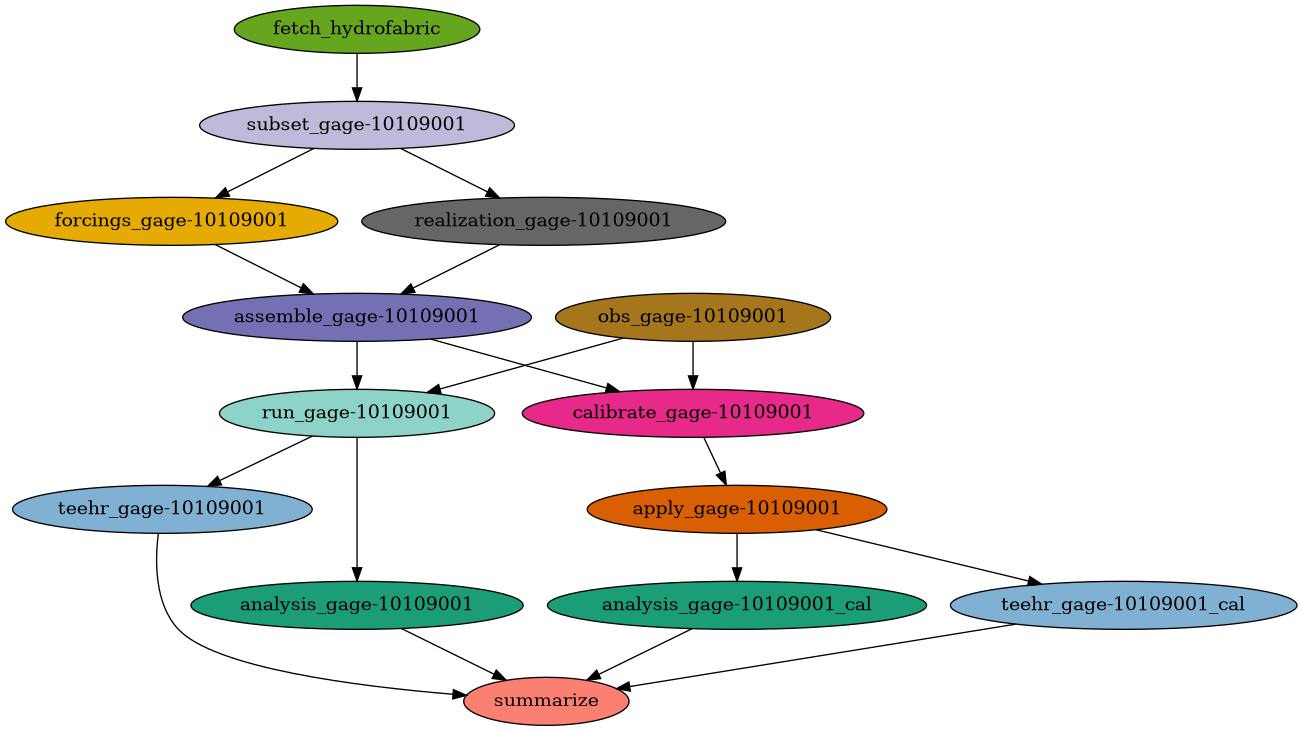
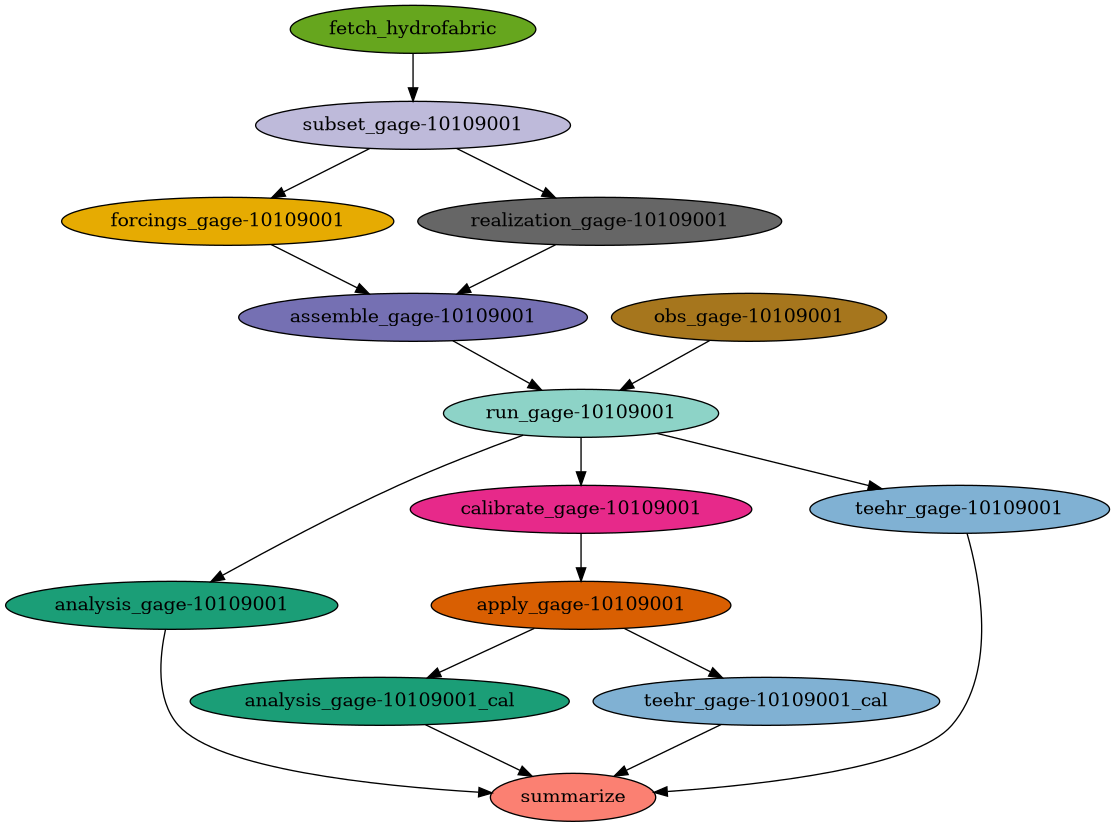
fix: regenerate the DAG diagram and correct the spin-up comparison row
images/workflow.png still showed calibrate branching off assemble_rundir — the
exact structure the paper's author asked to change. Regenerated with
pegasus-graphviz from the current generator, so it now shows the paper's
sequence: data prep, then the baseline model run, then calibration off that
run. This is author feedback #3 for the figure that the README diagram already
covered in text.

PAPER_COMPARISON.md's uncalibrated spin-up row cited 0.1652, which is the
CALIBRATED run's spin-up (calibrated parameters applied to the warm-up window)
— not comparable to Fig. 10's uncalibrated 0.200. The correct value from the
default-parameter run is 0.1752 / -0.4740, so the delta is -0.025, matching
run0006 to four decimals rather than appearing to drift. Added a note naming
which file each row must be read from, since the two differ by 0.01 and the
wrong one is the easier to reach for.

Narrow the presentation ignore to the artifacts. Ignoring slides/ wholesale
also hid the builders, speaker-note scripts and figures, which are plain text
and belong under version control; only the built .pptx files, the meeting PDF
and the scratch dirs need excluding.

diff --git a/PAPER_COMPARISON.md b/PAPER_COMPARISON.md
@@ -44,13 +44,20 @@ every row below are hourly.
 | NWM v3.0 KGE | 0.735 | 0.7361 | +0.001 |
 | NWM v3.0 NSE | 0.752 | 0.7540 | +0.002 |
 | Spin-up NWM v3.0 KGE / NSE | 0.418 / 0.428 | 0.4185 / 0.4288 | +0.001 |
-| Spin-up uncalibrated NextGen KGE / NSE | 0.200 / −0.410 | 0.1652 / −0.474 | −0.035 / −0.064 |
+| Spin-up uncalibrated NextGen KGE / NSE | 0.200 / −0.410 | 0.1752 / −0.4740 | −0.025 / −0.064 |
 
 The uncalibrated defaults score **KGE 0.8598** on the evaluation period, so
 calibration gained **+0.031 KGE**. Every published quantity lands within 0.003
-except the uncalibrated spin-up NextGen row, which carries the same offset
-seen in run0006 (0.175 vs 0.200) — a pre-existing difference in the
-uncalibrated model, not something the author's fixes introduced.
+except the uncalibrated spin-up NextGen row, which reproduces run0006's 0.1752
+to four decimals — the same pre-existing difference in the uncalibrated model,
+not something the author's fixes introduced.
+
+Note which run each row comes from: the uncalibrated and NWM rows are read from
+`gage-10109001_teehr_metrics.csv` (the default-parameter run) and the calibrated
+row from `..._teehr_metrics_cal.csv`. Reading a spin-up number off the
+*calibrated* file instead gives 0.1651 — that is the calibrated parameters
+applied to the warm-up window, a different quantity from the paper's
+uncalibrated spin-up, and not comparable to Fig. 10's 0.200.
 
 **The calibrated re-run reproduced the calibration's own objective to seven
 significant figures**: DDS reported `best_objective_value = 0.8903167830` for
